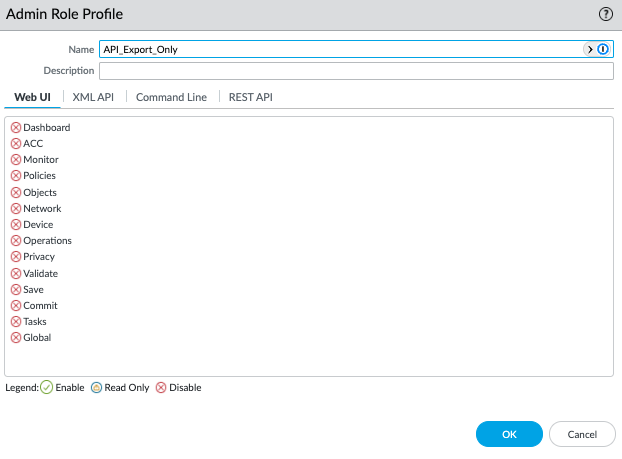
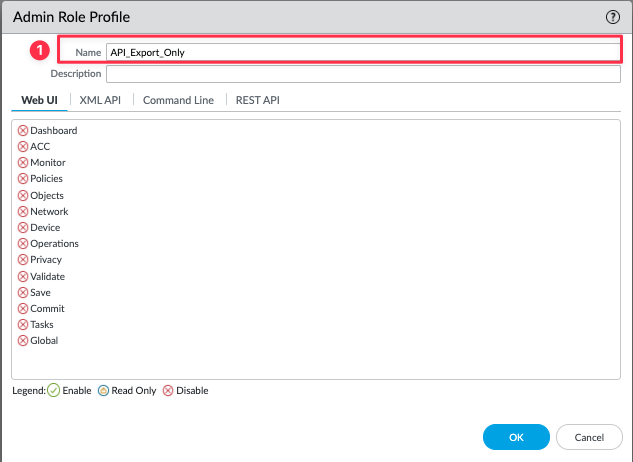
新增og header並移除social plugin

Changed region(s): [[0.0, 0.0, 1.0, 1.0], [0.7637, 0.915, 1.0, 0.976]]

diff --git a/overrides/main.html b/overrides/main.html
@@ -1,5 +1,65 @@
+{# page info #}
+{% set page_title = '' %}
+{% if page and page.meta and page.meta.title %}
+    {% set page_title = page.meta.title %}
+{% elif page and page.title and not page.is_homepage %}
+    {% set page_title = page.title %}
+{% endif %}
+
+{% if page.markdown == '' and page.parent.children %}
+    {% if page and page.meta and page.meta.title %}
+        {% set page_title = page.meta.title %}
+    {% else %}
+        {% set page_title = page.parent.title  %}
+    {% endif %}
+{% endif %}
+
+{% set page_description = '' %}
+{% if page and page.meta and page.meta.description %}
+    {% set page_description = page.meta.description %}
+{% elif page and page.description and not page.is_homepage %}
+    {% set page_description = page.description %}
+{% endif %}
+
+{% set page_url = page.canonical_url %}
+
+{% set page_image = config.site_url ~ "assets/banner.jpg" %}
+{% if page and page.meta and page.meta.banner %}
+    {% set page_image = page.canonical_url ~ page.meta.banner %}
+{% endif %}
+
+{% if page and page.meta and page.meta.tags %}
+    {% set page_tags = page.meta.tags %}
+{% endif %}
+
 {# template #}
 {% extends "base.html" %}
+
+{# title #}
+{% block htmltitle %}
+    <title>{{ page_title }} - {{ config.site_name }}</title>
+{% endblock %}
+
+{# sharing #}
+
+{% block extrahead %}
+    <!-- Open Graph -->
+    <meta property="og:type" content="website" />
+    <meta property="og:title" content="{{ page_title }} - {{ config.site_name }}" />
+    <meta property="og:description" content="{{ page_description }} - {{ config.site_description }}" />
+    <meta property="og:url" content="{{ page_url }}" />
+    <meta property="og:image" content="{{ page_image }}" />
+    <meta property="og:image:type" content="image/png" />
+    <meta property="og:image:width" content="1200" />
+    <meta property="og:image:height" content="630" />
+
+    <!-- Twitter Cards -->
+    <meta name="twitter:card" content="summary_large_image" />
+    <meta name="twitter:title" content="{{ page_title }} - {{ config.site_name }}" />
+    <meta name="twitter:description" content="{{ page_description }} - {{ config.site_description }}" />
+    <meta name="twitter:image" content="{{ page_image }}" />
+{% endblock %}
+{# analytics #}
 {% block analytics %}
 <script defer src="https://cloud.umami.is/script.js" data-website-id="53197f63-8bcf-4ee7-b1dc-3bb98354a997"></script>
 {{ super() }}

diff --git a/docs/assets/stylesheets/extra.css b/docs/assets/stylesheets/extra.css
@@ -48,17 +48,19 @@ body[data-md-color-scheme="slate"] {
 }
 /* paragraph */
 .md-typeset {
-    font-size: 0.75rem;
+    font-size: 0.8rem;
 }
 /* headers */
 .md-typeset h1 {
     color: var(--color);
     font-size: 2em;
+    font-weight: bold;
     margin: 0 0 0.5em 0;
 }
 .md-typeset h2 {
     color: var(--color);
     font-size: 1.6em;
+    font-weight: bold;
     margin: 1.6em 0 0.5em 0;
     padding-bottom: 0.125em;
     border-bottom: 2px solid var(--color);
@@ -66,13 +68,14 @@ body[data-md-color-scheme="slate"] {
 .md-typeset h3 {
     color: var(--color);
     font-size: 1.4em;
+    font-weight: bold;
     margin: 1.6em 0 0.5em 0;
     border-bottom: 1px dashed var(--color);
 }
 .md-typeset h4 {
     color: var(--color);
     font-size: 1.2em;
-    /* font-weight: normal; */
+    font-weight: bold;
     margin: 1.6em 0 0.5em 0;
     text-decoration: underline;
     text-underline-offset: 0.25em;
@@ -80,10 +83,13 @@ body[data-md-color-scheme="slate"] {
 .md-typeset h5 {
     color: var(--color);
     font-size: 1em;
-    /* font-weight: normal; */
+    font-weight: bold;
     margin: 1.6em 0 0.5em 0;
     text-decoration: underline;
     text-underline-offset: 0.25em;
+}
+.md-typeset p {
+    text-align: justify;
 }
 .toctitle {
     color: var(--color);
@@ -92,9 +98,7 @@ body[data-md-color-scheme="slate"] {
     padding-bottom: 0.125em;
     border-bottom: 2px solid var(--color);
 }
-.md-typeset p {
-    text-align: justify;
-}
+
 /* lists */
 .md-typeset :is(ol,ul) li:last-child {
     margin-bottom: 0.5em;

diff --git a/overrides/blog.html b/overrides/blog.html
@@ -1,5 +1,6 @@
 {# template #}
 {% extends "main.html" %}
+{% import "partials/nav-item.html" as item with context %}
 
 {# extra head #}
 {% block extrahead %}
@@ -28,7 +29,7 @@
         }
         .md-typeset .post .post-banner {
             margin-top: -1rem;
-            max-width: 8rem; /* 限制最大寬度為 130px */
+            max-width: 7rem; /* 限制最大寬度為*/
             width: 100%; /* 確保圖片寬度不會超過容器寬度 */
             height: auto; /* 自動調整高度，保持比例 */
             max-height: 4rem; /* 保持原有的最大高度限制 */
@@ -38,7 +39,7 @@
         /* 手機端調整 */
         @media (max-width: 800px) {
             .md-typeset .post .post-banner {
-                max-width: 4rem; /* 手機端同樣限制寬度為 130px */
+                max-width: 3rem; /* 手機端同樣限制寬度為 130px */
                 width: 100%; /* 確保寬度不超過容器 */
                 height: auto; /* 自動調整高度，保持比例 */
                 max-height: 2rem; /* 保持原有的手機端最大高度限制 */

diff --git a/docs/blog/posts/aruba/aruba-instant-on-siwtch-local-web-config/aruba-instant-on-siwtch-local-web-config.md b/docs/blog/posts/aruba/aruba-instant-on-siwtch-local-web-config/aruba-instant-on-siwtch-local-web-config.md
@@ -172,14 +172,11 @@ draft: false
 
 ![vlan interface configuration-2](images/img-12.png)
 
-| 編號 |         欄位名稱          | 欄位描述                                                                                |
-| :--: | :-----------------------: | --------------------------------------------------------------------------------------- |
-|  1   |     **Port VLAN ID**      | 封包從此介面{==進來==}時若沒有VLAN Tag則會加上此VLAN ID的Tag。此部分設定要與Untagged VLAN ID設定相同，不然會造成進來的封包是被轉發到Port VLAN ID而要出去的Untagged封包則會是Untagged VLAN ID                              |
-|  2   | **Acceptable Frame Type** | 封包由此介面{==進來==}時允許的類型                                                            |
-|      |         **- All**         | 不論是Tagged或Untagged封包均允許                                                        |
-|      |     **- Tagged Only**     | 只允許Tagged封包，若是Untagged封包則丟棄                                                |
-|      |    **- Untagged Only**    | 只允許Untagged封包，若是Tagged封包則丟棄                                                |
-|  3   |   **Ingress Filtering**   | 是否針對進入封包篩選實施篩選，若是啟用則進入的封包若沒有在介面設定的VLAN ID範圍內則丟棄 |
+| 編號 |         欄位名稱          | 欄位描述                                                                                                                                                                                                             |
+| :--: | :-----------------------: | -------------------------------------------------------------------------------------------------------------------------------------------------------------------------------------------------------------------- |
+|  1   |     **Port VLAN ID**      | 封包從此介面{==進來==}時若沒有VLAN Tag則會加上此VLAN ID的Tag。此部分設定要與Untagged VLAN ID設定相同，不然會造成進來的封包是被轉發到Port VLAN ID而要出去的Untagged封包則會是Untagged VLAN ID                         |
+|  2   | **Acceptable Frame Type** | 封包由此介面{==進來==}時允許的類型<br/>**- All：**不論是Tagged或Untagged封包均允許<br/>**- Tagged Only：**只允許Tagged封包，若是Untagged封包則丟棄<br/>**- Untagged Only：**只允許Untagged封包，若是Tagged封包則丟棄 |
+|  3   |   **Ingress Filtering**   | 是否針對進入封包篩選實施篩選，若是啟用則進入的封包若沒有在介面設定的VLAN ID範圍內則丟棄                                                                                                                              |
 
 !!! tip "此交換器沒有所謂的Port Type為Access、Trunk等設定，故若要達到一樣效果設定方式如下"
       - Access：

diff --git a/docs/blog/posts/paloalto/backup-config-periodically-without-panorama/backup-config-periodically-without-panorama.md b/docs/blog/posts/paloalto/backup-config-periodically-without-panorama/backup-config-periodically-without-panorama.md
@@ -13,24 +13,57 @@ banner: img.png
 draft: true
 ---
 
+<h2>目錄</h2>
+
+- [1. 環境說明](#1-環境說明)
+- [2. 設定](#2-設定)
+  - [2.1. 新增Admin Roles](#21-新增admin-roles)
+  - [2.2. 建立管理者帳號](#22-建立管理者帳號)
+  - [2.3. Script](#23-script)
+  
 ## 1. 環境說明
 
 - 防火牆型號：PA-820
 - 防火牆版本： 2.6.0
 - 執行備份任務腳本電腦作業系統版本： Windows Server 2019
 
-## 設定
+## 2. 設定
 
-### 新增Admin Roles
+### 2.1. 新增Admin Roles
 
 建立一個新的Admin Roles僅具有使用XML API Export功能，其餘均禁止以達到權限最小化原則
 
 ![Add Admin Roles](images/img-1.png)
 
-禁止Web UI所有功能
-![Add Admin Roles](images/img-2.png)
+![設定Admin Role Profile Name](images/img-2.png)
 
-### Script
+| 編號 | 欄位名稱 | 欄位描述       |
+| :--: | :------: | -------------- |
+|  1   | **Name** | 名稱，可自定義 |
+
+![禁止使用Web UI所有功能](images/img-3.png)
+
+![XML API除Export外其餘均禁止](images/img-4.png)
+
+![不賦予Command Line權限](images/img-5.png)
+
+![禁止使用REST API所有功能](images/img-6.png)
+
+### 2.2. 建立管理者帳號
+
+![Add Administrators](images/img-7.png)
+
+![alt text](images/img-8.png)
+
+| 編號 |        欄位名稱        | 欄位描述                                                                                      |
+| :--: | :--------------------: | --------------------------------------------------------------------------------------------- |
+|  1   |        **Name**        | 名稱，可自定義                                                                                |
+|  2   |      **Password**      | 密碼，可自定義                                                                                |
+|  3   |  **Confirm Password**  | 密碼確認                                                                                      |
+|  4   | **Administrator Type** | 管理員權限賦予方式<br>**- Dynamic：**使用內建的管理員角色<br/>**- Role Based：**使用自定義的管理員角色 |
+|  5   |      **Profile**       | 選擇此帳號的權限設定檔                                                                        |
+
+### 2.3. Script
 
 ``` batch
 @echo off

diff --git a/docs/projects/test.md b/docs/projects/test.md
@@ -1,0 +1,1 @@
+# test
